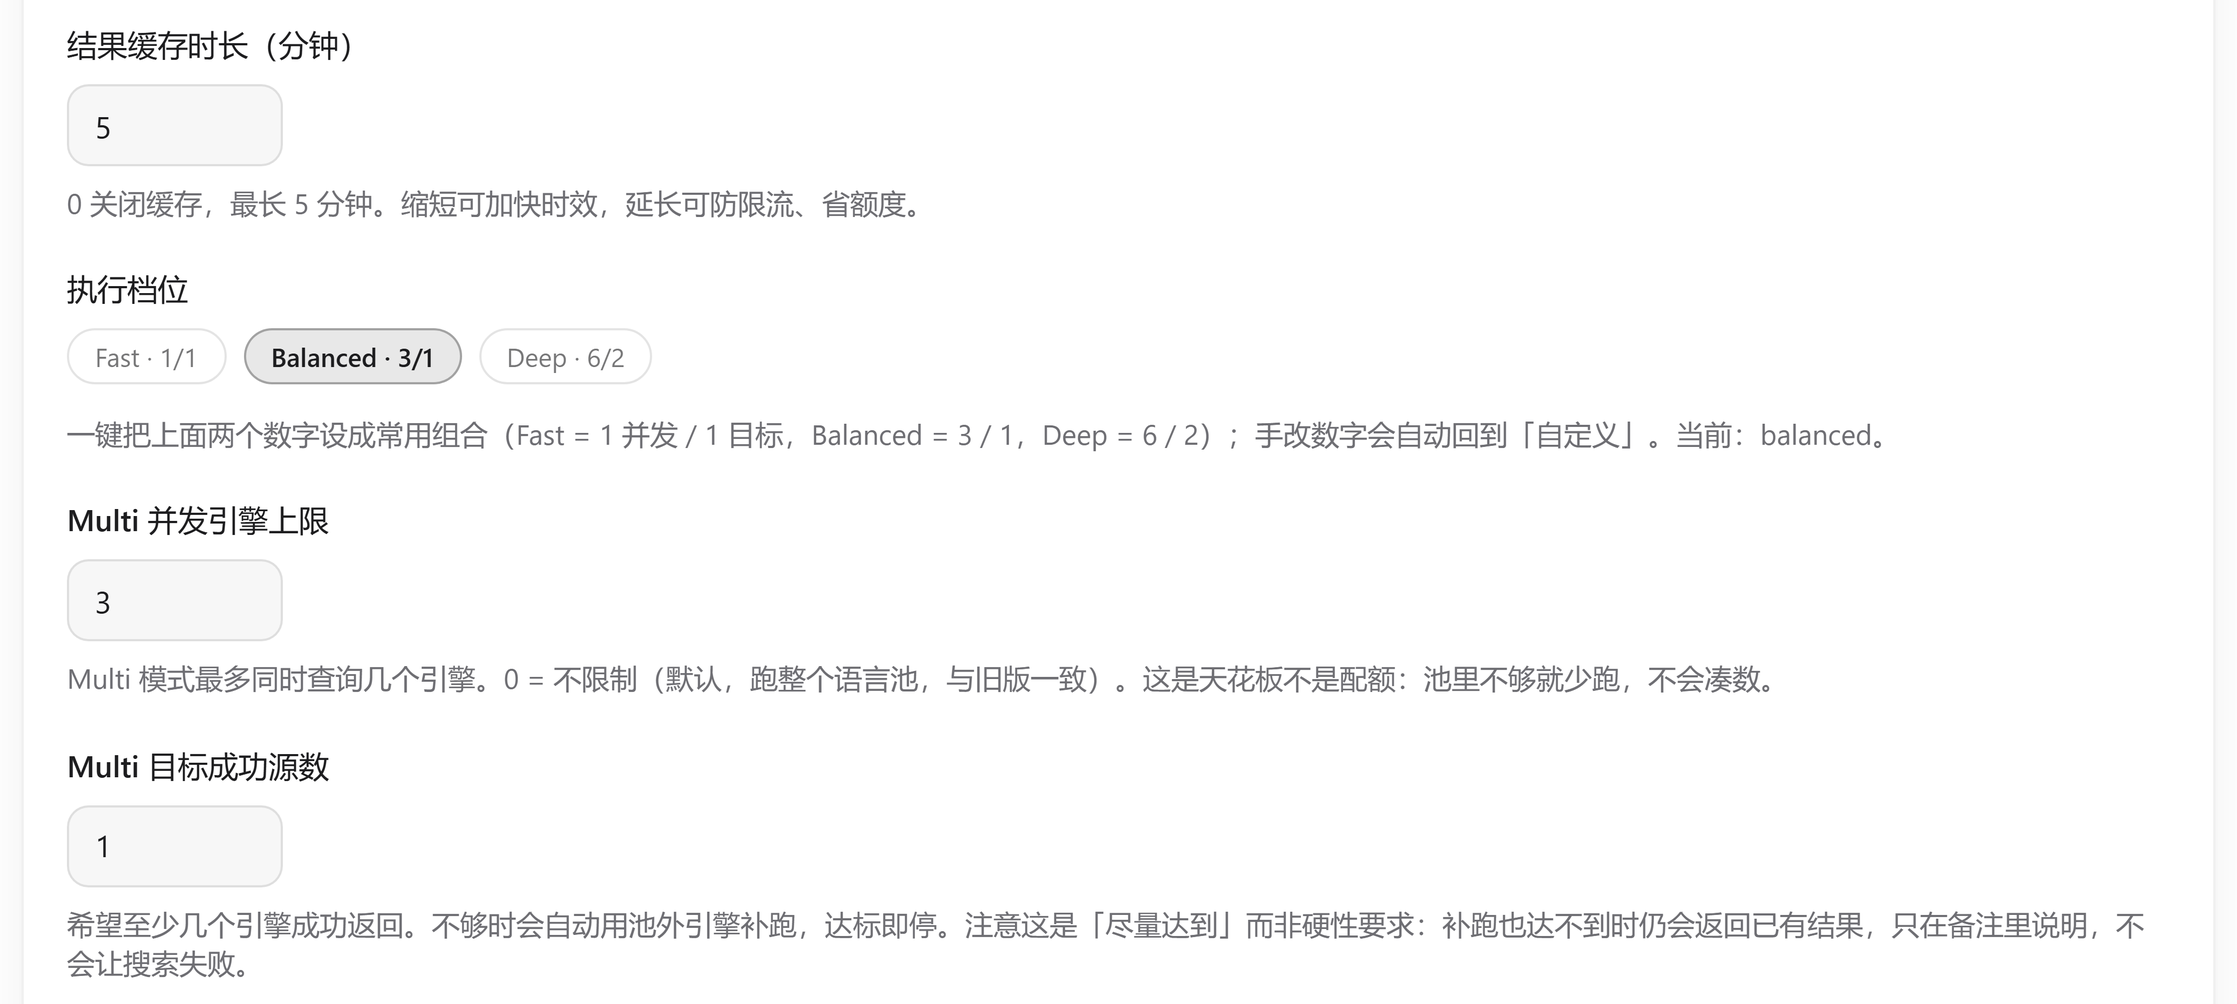
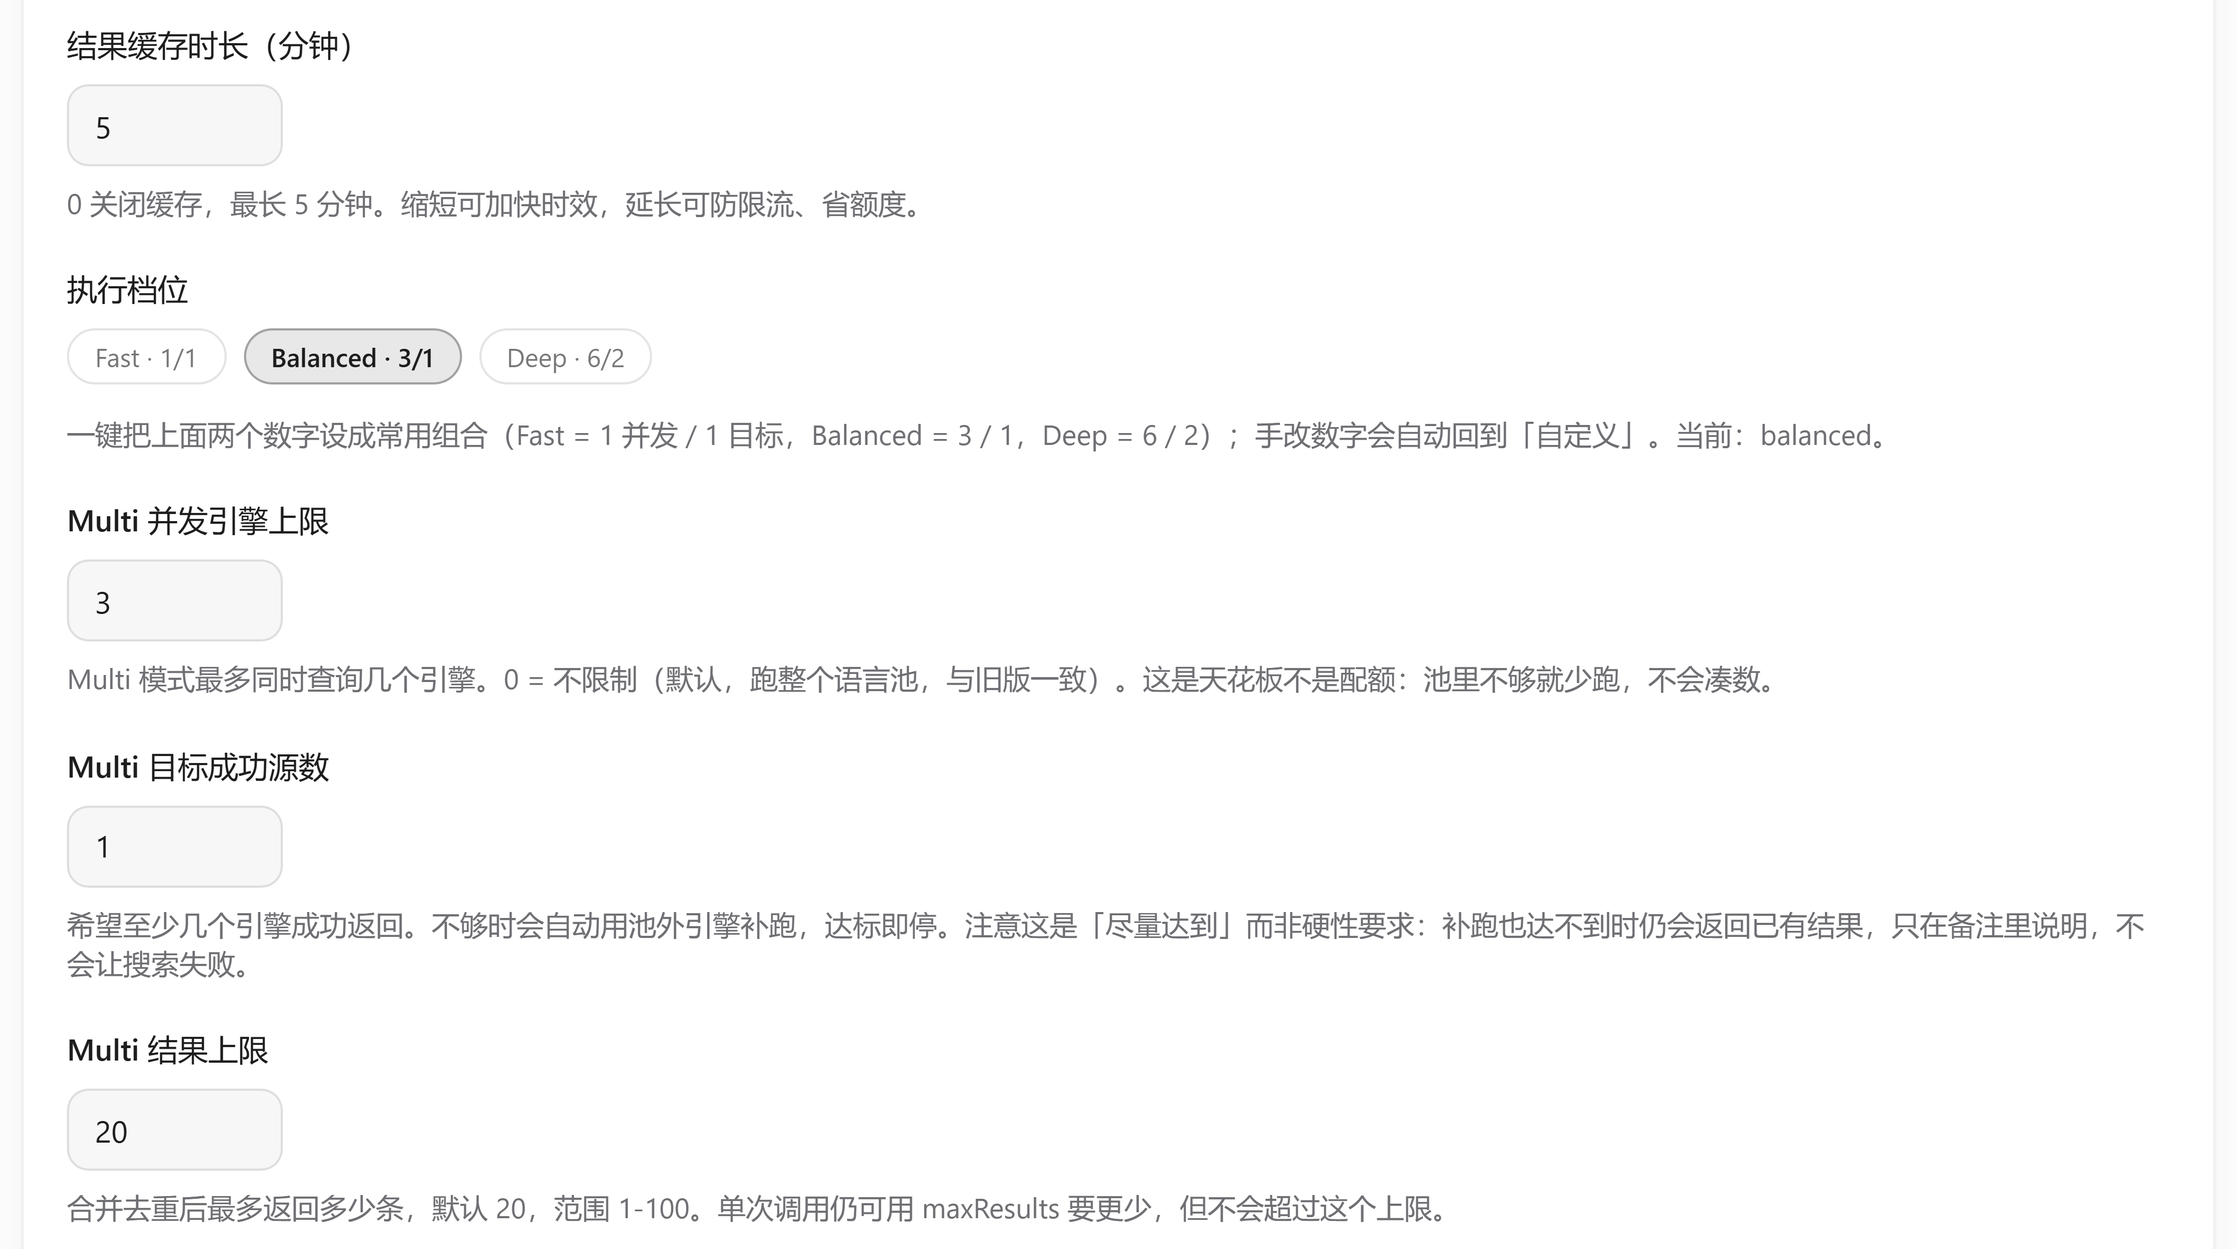
feat: make the multi_search result ceiling configurable (#109)

diff --git a/lib/client.js b/lib/client.js
@@ -15,8 +15,8 @@ window.__ModuleLoader__.load({
     toolsHeading: "### Tools",
     constraintsHeading: "### Constraints",
     mode: ({ mode, engines }) => `Current mode: ${mode}. Enabled engines: ${engines}.`,
-    multi: ({ zh, en }) =>
-      `Multi Search runs every enabled engine of the query's language pool concurrently (zh: ${zh}; en: ${en}), merges duplicate URLs, and prioritizes results seen by multiple engines. Disabled/cooling/keyless engines are skipped automatically.`,
+    multi: ({ zh, en, limit }) =>
+      `Multi Search runs every enabled engine of the query's language pool concurrently (zh: ${zh}; en: ${en}), merges duplicate URLs, and prioritizes results seen by multiple engines. The merged result ceiling is ${limit} (configurable in Settings). Disabled/cooling/keyless engines are skipped automatically.`,
     auto: ({ custom }) =>
       "Auto routing chooses among enabled engines by query language/time filter." +
       (custom ? " Custom global priority is applied inside route groups and the remaining fallback chain." : ""),
@@ -54,8 +54,8 @@ window.__ModuleLoader__.load({
     toolsHeading: "### 工具",
     constraintsHeading: "### 约束",
     mode: ({ mode, engines }) => `当前模式：${mode}。已启用引擎：${engines}。`,
-    multi: ({ zh, en }) =>
-      `Multi Search 会并发运行查询所属语言池中所有已启用引擎（中：${zh}；英：${en}），合并重复 URL，并优先展示被多个引擎命中的结果。自动跳过已禁用、冷却中、无密钥的引擎。`,
+    multi: ({ zh, en, limit }) =>
+      `Multi Search 会并发运行查询所属语言池中所有已启用引擎（中：${zh}；英：${en}），合并重复 URL，并优先展示被多个引擎命中的结果。合并结果上限为 ${limit}（可在设置页调整）。自动跳过已禁用、冷却中、无密钥的引擎。`,
     auto: ({ custom }) =>
       "Auto 路由按查询语言与时间过滤条件在已启用引擎中选择。" +
       (custom ? "自定义全局优先级会应用于各路由组内部以及剩余的兜底链中。" : ""),
@@ -88,6 +88,11 @@ window.__ModuleLoader__.load({
   },
 };
 
+    const multiResultCeiling = (value) => {
+      const n = Math.floor(Number(value));
+      return Number.isFinite(n) && n >= 1 ? Math.min(n, 100) : 20;
+    };
+
     const composeBuiltinPrompt = (lang, cfg) => {
       // 返回三段：状态 / 工具 / 约束，与服务端 buildBuiltinPromptBlocks 同一套规则。
       const copy = PROMPT_TEXT[lang === "zh" ? "zh" : "en"];
@@ -102,7 +107,7 @@ window.__ModuleLoader__.load({
       if (preferred === "multi") {
         const zhPool = (Array.isArray(cfg.zhPool) ? cfg.zhPool : DEFAULT_ZH_POOL).filter((id) => enabled.includes(id));
         const enPool = (Array.isArray(cfg.enPool) ? cfg.enPool : DEFAULT_EN_POOL).filter((id) => enabled.includes(id));
-        state.push(copy.multi({ zh: zhPool.join(", ") || "none", en: enPool.join(", ") || "none" }));
+        state.push(copy.multi({ zh: zhPool.join(", ") || "none", en: enPool.join(", ") || "none", limit: multiResultCeiling(cfg.multiMaxResults) }));
       } else if (preferred === "auto") {
         state.push(copy.auto({ custom: false }));
       } else if (!enabled.includes(preferred)) {
@@ -374,6 +379,8 @@ window.__ModuleLoader__.load({
           multiMaxEnginesHint: "Multi 模式最多同时查询几个引擎。0 = 不限制（默认，跑整个语言池，与旧版一致）。这是天花板不是配额：池里不够就少跑，不会凑数。",
           multiMinSources: "Multi 目标成功源数",
           multiMinSourcesHint: "希望至少几个引擎成功返回。不够时会自动用池外引擎补跑，达标即停。注意这是「尽量达到」而非硬性要求：补跑也达不到时仍会返回已有结果，只在备注里说明，不会让搜索失败。",
+          multiMaxResults: "Multi 结果上限",
+          multiMaxResultsHint: "合并去重后最多返回多少条，默认 20，范围 1-100。单次调用仍可用 maxResults 要更少，但不会超过这个上限。",
           multiPreset: "执行档位",
           multiPresetCustom: "自定义",
           multiPresetHint: (now) => `一键把上面两个数字设成常用组合（Fast = 1 并发 / 1 目标，Balanced = 3 / 1，Deep = 6 / 2）；手改数字会自动回到「自定义」。当前：${now}。`,
@@ -522,6 +529,8 @@ window.__ModuleLoader__.load({
         multiMaxEnginesHint: "How many engines Multi may query at once. 0 = no limit (default, runs the whole language pool, same as before). This is a ceiling, not a quota: fewer candidates simply means fewer engines run.",
         multiMinSources: "Multi target successful sources",
         multiMinSourcesHint: "How many engines should ideally return results. Below target, extra engines from outside the pool are tried until it is met. This is a target, not a hard minimum: if it still cannot be met, existing results are returned and only a note is added — the search never fails for this reason.",
+        multiMaxResults: "Multi result ceiling",
+        multiMaxResultsHint: "How many unique results a Multi search may return after merging and de-duplication. Default 20, range 1-100. A per-call maxResults can ask for fewer, never more.",
         multiPreset: "Preset",
         multiPresetCustom: "Custom",
         multiPresetHint: (now) => `One click sets the two numbers above to a common combination (Fast = 1 engine / 1 source, Balanced = 3 / 1, Deep = 6 / 2); editing them switches back to Custom. Current: ${now}.`,
@@ -896,6 +905,7 @@ window.__ModuleLoader__.load({
       const [cacheTtl, setCacheTtl] = react.useState(5);
       const [multiMaxEngines, setMultiMaxEngines] = react.useState(0);
       const [multiMinSources, setMultiMinSources] = react.useState(1);
+      const [multiMaxResults, setMultiMaxResults] = react.useState(20);
       // 执行档位（#69 §1）：与 lib/multi_policy.js 的 MULTI_PRESETS 保持一致。
       // 浏览器半没有 import，故内联这份表；两份的一致性由 assert-multi-policy.mjs 交叉校验钉住。
       const MULTI_PRESET_VALUES = {
@@ -1064,6 +1074,7 @@ window.__ModuleLoader__.load({
               // #69：multi 上限 0 = 不限制（旧行为）；目标成功源数下限 1
               setMultiMaxEngines(v.multiMaxEngines === undefined ? 0 : Math.max(Number(v.multiMaxEngines) ?? 0, 0));
               setMultiMinSources(v.multiMinSources === undefined ? 1 : Math.max(Number(v.multiMinSources) ?? 1, 1));
+              setMultiMaxResults(v.multiMaxResults === undefined ? 20 : Math.min(Math.max(Number(v.multiMaxResults) || 20, 1), 100));
               // secrets 字段标记哪些 key 已配置（值被脱敏，仅显示"已配置"）
               const configured = {};
               for (const secret of view.secrets ?? []) {
@@ -1207,6 +1218,7 @@ window.__ModuleLoader__.load({
           ops.push({ op: "set", path: ["cacheTtl"], value: Math.min(Math.max(Number(cacheTtl) ?? 5, 0), 5) });
       ops.push({ op: "set", path: ["multiMaxEngines"], value: Math.max(Number(multiMaxEngines) ?? 0, 0) });
       ops.push({ op: "set", path: ["multiMinSources"], value: Math.max(Number(multiMinSources) ?? 1, 1) });
+      ops.push({ op: "set", path: ["multiMaxResults"], value: Math.min(Math.max(Number(multiMaxResults) || 20, 1), 100) });
           const result = await bridgeMutate({ ns: NS, ops });
           if (!result || !result.ok) {
             const code = (result && result.code) || "error";
@@ -1441,7 +1453,7 @@ window.__ModuleLoader__.load({
       };
       // #102：页 1 内置英文、页 2 内置中文、页 3 起自定义；当前页即注入内容。
       // 每段两页内置：页 1 英文、页 2 中文；页 3 起是用户页。
-      const promptConfig = { provider, disabledEngines, allowedEngines, fallbackOrder, zhPool, enPool, safeSearch, bingMarket };
+      const promptConfig = { provider, disabledEngines, allowedEngines, fallbackOrder, zhPool, enPool, safeSearch, bingMarket, multiMaxResults };
       const blocksEn = composeBuiltinPrompt("en", promptConfig);
       const blocksZh = composeBuiltinPrompt("zh", promptConfig);
       const toolsLang = promptToolsLang === "zh" || promptToolsLang === "en" ? promptToolsLang : promptLanguage;
@@ -2445,6 +2457,34 @@ react_jsx_runtime.jsx("div", {
                       react_jsx_runtime.jsx("p", {
                         className: "dshfs-hint",
                         children: t.multiMinSourcesHint,
+                      }),
+                    ],
+                  }),
+                  react_jsx_runtime.jsx("div", {
+                    className: "dshfs-field",
+                    children: [
+                      react_jsx_runtime.jsx("div", {
+                        className: "dshfs-label",
+                        children: t.multiMaxResults,
+                      }),
+                      react_jsx_runtime.jsx("input", {
+                        className: "dshfs-input dshfs-ttl",
+                        type: "number",
+                        min: 1,
+                        max: 100,
+                        step: 1,
+                        value: multiMaxResults,
+                        disabled: !ready || saving,
+                        onChange: (e) => {
+                          setMultiMaxResults(Math.min(Math.max(Number(e.target.value) || 20, 1), 100));
+                          setDirty(true);
+                          setFailed(false);
+                          setSaveError("");
+                        },
+                      }),
+                      react_jsx_runtime.jsx("p", {
+                        className: "dshfs-hint",
+                        children: t.multiMaxResultsHint,
                       }),
                     ],
                   }),

diff --git a/lib/index.js b/lib/index.js
@@ -685,6 +685,24 @@ function snippetCap(engine) {
   return SNIPPET_MAX_BY_ENGINE[engine] ?? 300;
 }
 
+// #109: multi_search result ceiling. The per-call maxResults still chooses the
+// requested count, but it can never exceed the ceiling configured in Settings.
+const MULTI_RESULTS_MAX = 100;
+const MULTI_RESULTS_DEFAULT = 20;
+
+function normalizeMultiMaxResults(value) {
+  const n = Math.floor(Number(value));
+  if (!Number.isFinite(n) || n < 1) return MULTI_RESULTS_DEFAULT;
+  return Math.min(n, MULTI_RESULTS_MAX);
+}
+
+function multiResultLimit(requested, ceiling) {
+  const cap = normalizeMultiMaxResults(ceiling);
+  const asked = Math.floor(Number(requested));
+  const base = Number.isFinite(asked) && asked > 0 ? asked : 8;
+  return Math.min(base, cap);
+}
+
 // 提示注入防护：插件自有工具（advanced_search / platform_search / free_search_test）的
 // 网页来源文本统一包进显式「不可信数据」边界，配合系统提示词里的同名说明使用。
 // 核心 web_search / web_fetch 由 DSH 核心自带 EXTERNAL_WEB_CONTENT_NOTICE，不在此重复；
@@ -3912,7 +3930,13 @@ function buildBlocksForLang(cfg, lang) {
   if (preferred === "multi") {
     const zhPoolEngines = normalizeLanguagePool(cfg.zhPool, DEFAULT_ZH_POOL).filter((engine) => !disabledSet.has(engine));
     const enPoolEngines = normalizeLanguagePool(cfg.enPool, DEFAULT_EN_POOL).filter((engine) => !disabledSet.has(engine));
-    state.push(copy.multi({ zh: zhPoolEngines.join(", ") || "none", en: enPoolEngines.join(", ") || "none" }));
+    state.push(
+    copy.multi({
+      zh: zhPoolEngines.join(", ") || "none",
+      en: enPoolEngines.join(", ") || "none",
+      limit: normalizeMultiMaxResults(cfg.multiMaxResults),
+    })
+  );
   } else if (preferred === "auto") state.push(copy.auto({ custom: customOrder }));
   else if (disabledSet.has(preferred)) state.push(copy.preferredDisabled({ chain: enabled.join(" -> ") || "none" }));
   else { const fallback = enabled.filter((engine) => engine !== preferred); state.push(copy.preferredFailed({ chain: fallback.join(" -> ") || "none" })); }
@@ -4003,6 +4027,8 @@ const Config = z.object({
   // #69 §3：multi 目标成功源数，默认 1。未达标时用链路里未试过的引擎补跑；
   // 补跑也达不到时只附提示——不丢弃结果、不让搜索失败（目标 ≠ 硬下限）。
   multiMinSources: z.number().default(1).volatile(),
+  // #109: ceiling for the number of unique results a multi_search call returns.
+  multiMaxResults: z.number().default(20).volatile(),
   keyStorage: z.string().default("credentials").volatile(), // key 存储位置：credentials（凭据中心）| settings（设置页）
   lang: z.string().default("zh").volatile(),
   // UI 语言（zh/en）；为空表示跟随 lang。lang 同时影响 Bing 本地化，所以两者分开（#83）。
@@ -5361,7 +5387,7 @@ function apply(ctx, config) {
     // #72：multi_search 工具直连本函数、不经过 provider.search，自行设置活动黑名单
     setActiveBlockedDomains(current().blockedDomains);
     const q = String(query).trim();
-    const limit = Math.min(Math.max(Number(maxResults) || 8, 1), 20);
+    const limit = multiResultLimit(maxResults, current().multiMaxResults);
     const disabled = new Set(effectiveDisabledEngines(current()));
     const parsedTimeRange = parseTimeRange(timeRange);
     const targetEngines = Array.isArray(engines) && engines.length > 0
@@ -6096,6 +6122,7 @@ function apply(ctx, config) {
       ns: FREE_SEARCH_NS,
       getLang: () => promptLanguageOf(current()),
       getEnabled: () => toolEnabled("multi_search"),
+      getKey: () => String(normalizeMultiMaxResults(current().multiMaxResults)),
       register: (lang) => {
       const dispose = sctx.tools.register(
         defineTool({
@@ -6108,7 +6135,11 @@ function apply(ctx, config) {
             },
             maxResults: {
               type: "number",
-              description: toolParam(lang, "multi_search", "maxResults"),
+              minimum: 1,
+              maximum: MULTI_RESULTS_MAX,
+              description: toolParam(lang, "multi_search", "maxResults", {
+                limit: normalizeMultiMaxResults(current().multiMaxResults),
+              }),
             },
             engines: {
               type: "array",
@@ -6239,6 +6270,9 @@ export {
   hasCustomFallbackOrder,
   normalizeDisabledEngines,
   normalizeAllowedEngines,
+  normalizeMultiMaxResults,
+  multiResultLimit,
+  MULTI_RESULTS_MAX,
   cleanSnippet,
   compareVersions,
   detectInstallMode,

diff --git a/lib/prompt_i18n.js b/lib/prompt_i18n.js
@@ -17,8 +17,8 @@ const SYSTEM = {
   en: {
     heading: "## Web search (free-search)",
     mode: ({ mode, engines }) => `Current mode: ${mode}. Enabled engines: ${engines}.`,
-    multi: ({ zh, en }) =>
-      `Multi Search runs every enabled engine of the query's language pool concurrently (zh: ${zh}; en: ${en}), merges duplicate URLs, and prioritizes results seen by multiple engines. Disabled/cooling/keyless engines are skipped automatically.`,
+    multi: ({ zh, en, limit }) =>
+      `Multi Search runs every enabled engine of the query's language pool concurrently (zh: ${zh}; en: ${en}), merges duplicate URLs, and prioritizes results seen by multiple engines. The merged result ceiling is ${limit} (configurable in Settings). Disabled/cooling/keyless engines are skipped automatically.`,
     auto: ({ custom }) =>
       "Auto routing chooses among enabled engines by query language/time filter." +
       (custom ? " Custom global priority is applied inside route groups and the remaining fallback chain." : ""),
@@ -52,8 +52,8 @@ const SYSTEM = {
   zh: {
     heading: "## 网页搜索（free-search）",
     mode: ({ mode, engines }) => `当前模式：${mode}。已启用引擎：${engines}。`,
-    multi: ({ zh, en }) =>
-      `Multi Search 会并发运行查询所属语言池中所有已启用引擎（中：${zh}；英：${en}），合并重复 URL，并优先展示被多个引擎命中的结果。自动跳过已禁用、冷却中、无密钥的引擎。`,
+    multi: ({ zh, en, limit }) =>
+      `Multi Search 会并发运行查询所属语言池中所有已启用引擎（中：${zh}；英：${en}），合并重复 URL，并优先展示被多个引擎命中的结果。合并结果上限为 ${limit}（可在设置页调整）。自动跳过已禁用、冷却中、无密钥的引擎。`,
     auto: ({ custom }) =>
       "Auto 路由按查询语言与时间过滤条件在已启用引擎中选择。" +
       (custom ? "自定义全局优先级会应用于各路由组内部以及剩余的兜底链中。" : ""),
@@ -140,7 +140,8 @@ const TOOLS = {
         "Search multiple search engines concurrently and merge/deduplicate ranked results. Cross-source validation with seenIn counts. Use on-demand when high source diversity is needed as it consumes more engine quota.",
       params: {
         query: "The search query.",
-        maxResults: "Optional result count limit after merge (default 8, max 20).",
+        maxResults: ({ limit }) =>
+          `Optional result count limit after merge (default 8, up to ${limit}; the ceiling is configurable in Settings, hard max 100).`,
         engines:
           "Optional list of engines to query concurrently (defaults to the full language pool for the query, zh/en by script; disabled/cooling/keyless engines are skipped automatically).",
       },
@@ -230,7 +231,8 @@ const TOOLS = {
         "并发调用多个搜索引擎，合并并去重排序结果，同时给出 seenIn 交叉验证计数。仅在需要较高来源多样性时按需使用（会消耗更多引擎配额）。",
       params: {
         query: "搜索查询。",
-        maxResults: "合并后的结果数上限（默认 8，最多 20）。",
+        maxResults: ({ limit }) =>
+          `合并后的结果数量上限（默认 8，最多 ${limit}；上限可在设置页调整，最大 100）。`,
         engines:
           "可选，要并发查询的引擎列表（默认按查询语言使用完整的 zh/en 语言池；已禁用、冷却中、缺少 key 的引擎会自动跳过）。",
       },
@@ -339,13 +341,13 @@ export function effectivePromptText({ builtins = {}, pages, index } = {}) {
   return String(promptPageText(pages, index, builtins) ?? '').trim();
 }
 
-export function localizedEffect(sctx, { label, ns, getLang, getEnabled = () => true, register, logger }) {
+export function localizedEffect(sctx, { label, ns, getLang, getEnabled = () => true, getKey = () => "", register, logger }) {
   let dispose = null;
   let applied = null;
   const apply = () => {
     const lang = getLang();
     const enabled = getEnabled() !== false;
-    const key = `${lang}|${enabled ? 1 : 0}`;
+    const key = `${lang}|${enabled ? 1 : 0}|${getKey()}`;
     if (applied === key) return;
     const previous = dispose;
     dispose = null;
